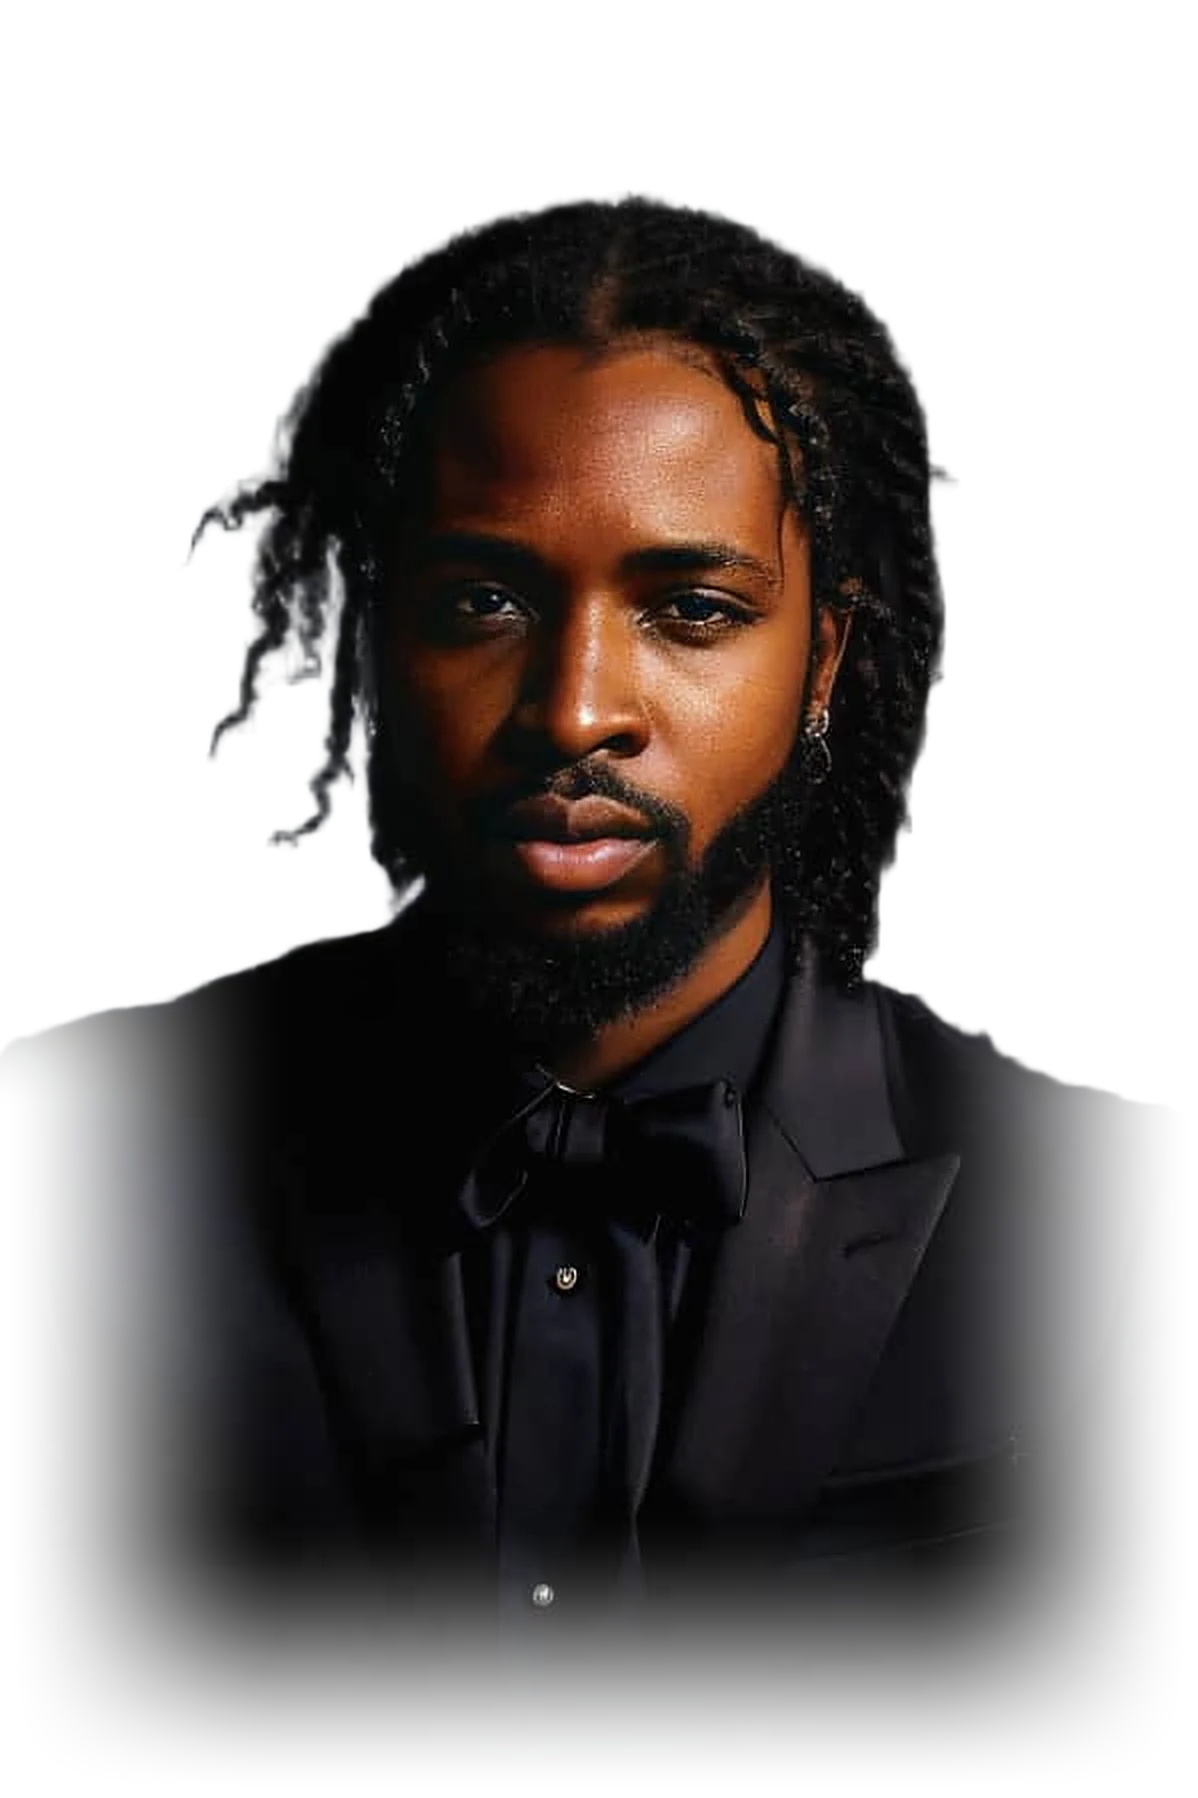
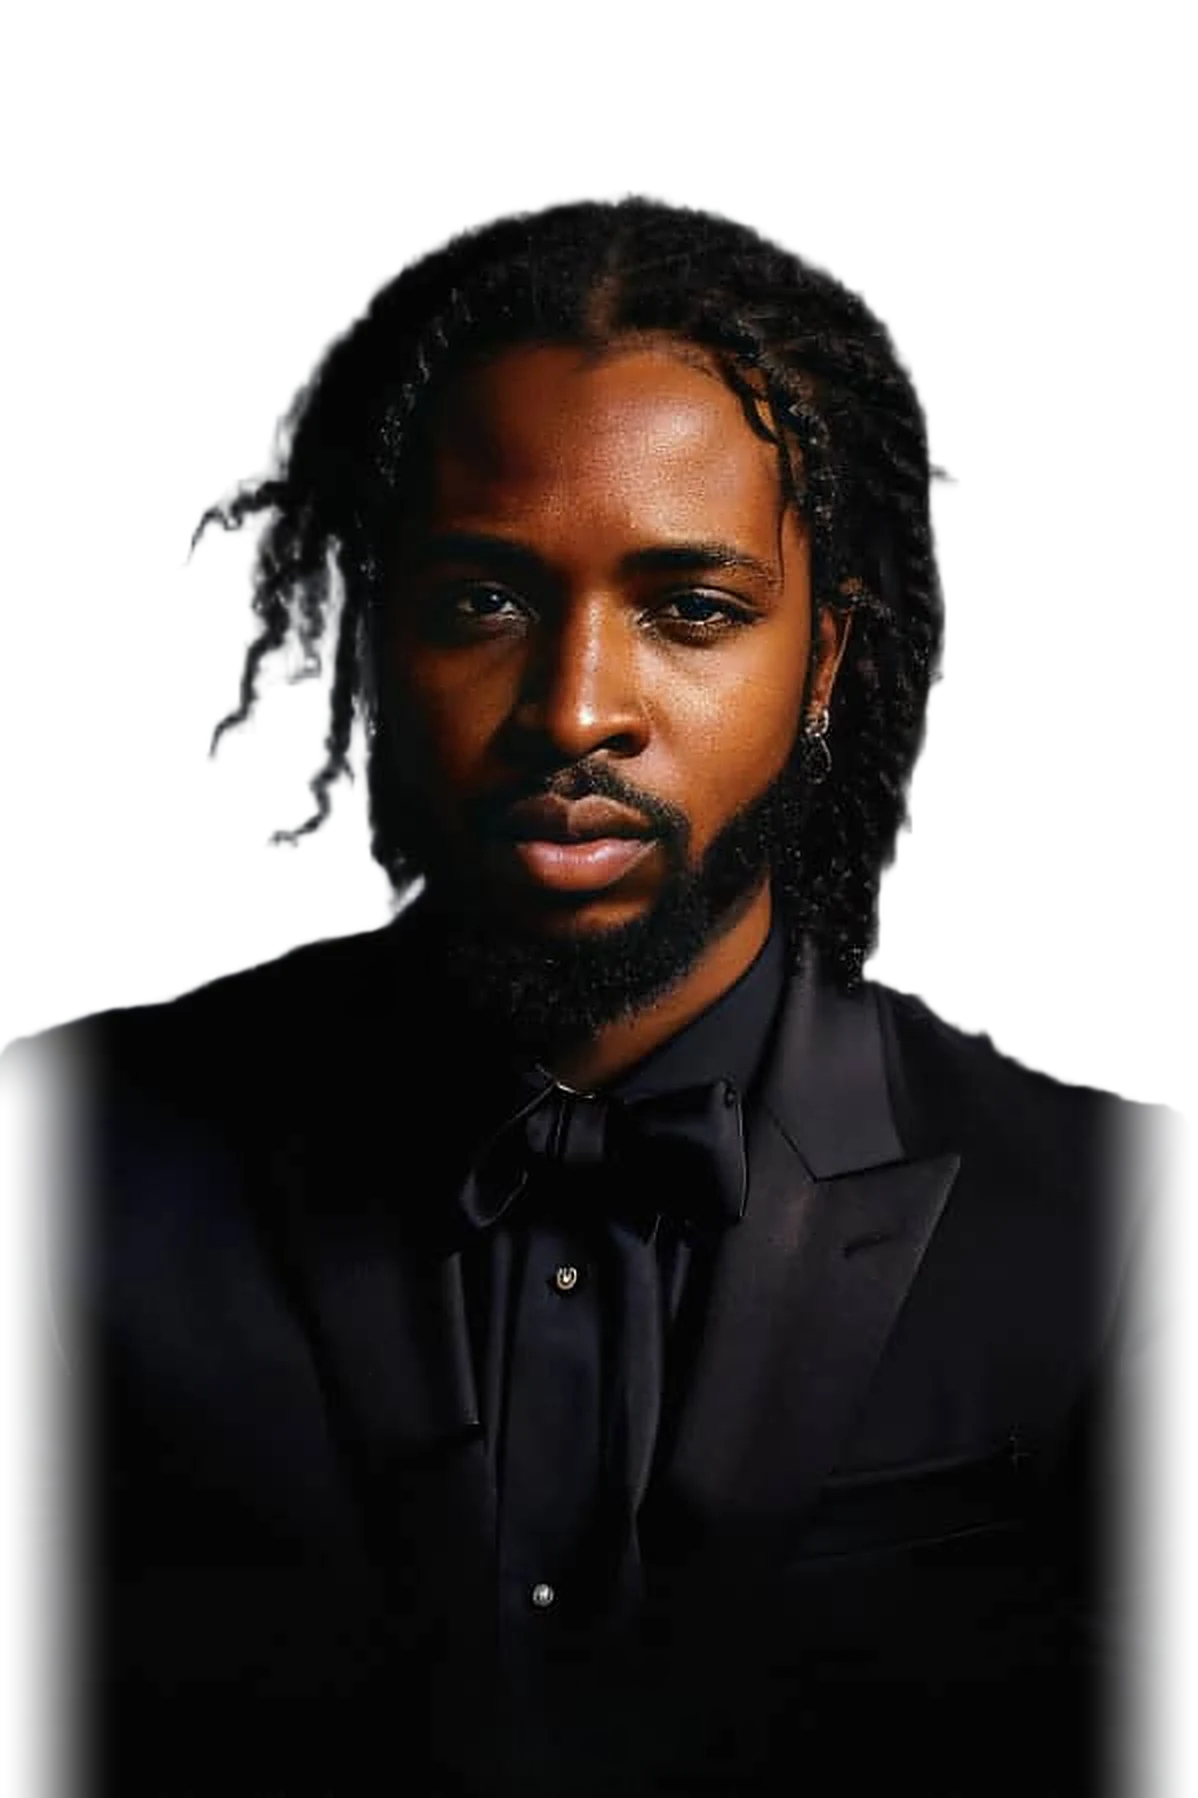
Hero shoulders closer to the concept, first-frame canvas error fixed, closing quote after last word
Claude-Session: https://claude.ai/code/session_012UR96DsDdzAgwwgmztnBTh

Changed region(s): [[0.0, 0.5295, 0.9883, 1.0]]

diff --git a/components/HeroPortrait.tsx b/components/HeroPortrait.tsx
@@ -70,42 +70,73 @@ function linkNearest(nodes: P[], k: number, max: number) {
   return edges;
 }
 
-// Low-poly shards where the shoulders break up
-function buildShards(r: () => number) {
-  const cols = 13;
-  const rows = 6;
-  const grid: P[] = [];
-  for (let row = 0; row < rows; row++) {
-    for (let col = 0; col < cols; col++) {
-      const u = -0.22 + (col / (cols - 1)) * 1.44 + (r() - 0.5) * 0.07;
-      const v = 0.6 + row * 0.085 + (r() - 0.5) * 0.05 + (row === rows - 1 ? r() * 0.06 : 0);
-      grid.push(makePoint(r, u, v, 0.18));
-    }
+// Where the suit ends: a jagged V along the bottom of the photo (fractions of the photo box).
+// The photo is clipped to this line, and small triangles break away below it.
+const ZIG: [number, number][] = (() => {
+  const r = rand(19);
+  const pts: [number, number][] = [];
+  const n = 17;
+  for (let i = 0; i < n; i++) {
+    const u = 0.02 + (i / (n - 1)) * 0.96;
+    const base = 0.68 + 0.25 * Math.pow(1 - Math.abs(u - 0.5) / 0.48, 1.3);
+    const tooth = i % 2 ? 0.018 + r() * 0.02 : -0.01 - r() * 0.01;
+    pts.push([u, Math.min(0.985, base + tooth)]);
   }
-  const tris: { a: number; b: number; c: number; shade: number }[] = [];
-  for (let row = 0; row < rows - 1; row++) {
-    for (let col = 0; col < cols - 1; col++) {
-      const i = row * cols + col;
-      const quad = [i, i + 1, i + cols, i + cols + 1];
-      const flip = r() < 0.5;
-      const pair = flip
-        ? [[quad[0], quad[1], quad[3]], [quad[0], quad[3], quad[2]]]
-        : [[quad[0], quad[1], quad[2]], [quad[1], quad[3], quad[2]]];
-      pair.forEach(([a, b, c]) => {
-        const cu = (grid[a].bu + grid[b].bu + grid[c].bu) / 3;
-        const cv = (grid[a].bv + grid[b].bv + grid[c].bv) / 3;
-        // keep the chest and the top of the shoulders as the real photo
-        if (Math.abs(cu - 0.5) < 0.3 && cv < 0.8) return;
-        if (cv < 0.66 && Math.abs(cu - 0.5) < 0.5) return;
-        // drop some shards at the edges so it breaks apart
-        const edge = Math.max(0, Math.abs(cu - 0.5) - 0.45) * 3 + Math.max(0, cv - 0.9) * 4;
-        if (r() < edge) return;
-        tris.push({ a, b, c, shade: 0.35 + r() * 0.65 });
-      });
-    }
+  return pts;
+})();
+
+// CSS clip-path for the photo, so the suit ends on the jagged line
+const PHOTO_CLIP = `polygon(0% 0%, 100% 0%, 100% ${(ZIG[ZIG.length - 1][1] * 100).toFixed(1)}%, ${[...ZIG]
+  .reverse()
+  .map(([u, v]) => `${(u * 100).toFixed(1)}% ${(v * 100).toFixed(1)}%`)
+  .join(", ")}, 0% ${(ZIG[0][1] * 100).toFixed(1)}%)`;
+
+type Tone = "suit" | "grey" | "accent";
+const tone = (r: () => number): Tone => {
+  const x = r();
+  return x < 0.55 ? "suit" : x < 0.82 ? "grey" : "accent";
+};
+
+function buildBottom(r: () => number) {
+  // the jagged line itself, as moving points
+  const edge = ZIG.map(([u, v]) => makePoint(r, u, v, 0.35));
+  edge.forEach((p) => (p.amp *= 0.4));
+
+  // triangles hanging from the line, like the suit breaking apart
+  const hang: { a: P; b: P; apex: P; tone: Tone }[] = [];
+  for (let i = 0; i < edge.length - 1; i++) {
+    if (r() < 0.3) continue;
+    const lo = Math.max(edge[i].bv, edge[i + 1].bv);
+    const apex = makePoint(r, (edge[i].bu + edge[i + 1].bu) / 2 + (r() - 0.5) * 0.04, lo + 0.018 + r() * 0.035, 0);
+    hang.push({ a: edge[i], b: edge[i + 1], apex, tone: tone(r) });
   }
-  const used = new Set(tris.flatMap((t) => [t.a, t.b, t.c]));
-  return { grid: grid.map((g, i) => ({ ...g, used: used.has(i) })), tris };
+
+  // small loose pieces drifting below
+  const bits: { c: P; size: number; rot: number; tone: Tone; dist: number }[] = [];
+  for (let i = 0; i < 22; i++) {
+    const k = r() * (ZIG.length - 1);
+    const j = Math.floor(k);
+    const u = ZIG[j][0] + (ZIG[j + 1][0] - ZIG[j][0]) * (k - j);
+    const vEdge = ZIG[j][1] + (ZIG[j + 1][1] - ZIG[j][1]) * (k - j);
+    const dist = 0.03 + r() * 0.13;
+    bits.push({ c: makePoint(r, u + (r() - 0.5) * 0.05, vEdge + dist, 0), size: 0.012 + r() * 0.026 * (1 - dist * 3), rot: r() * Math.PI * 2, tone: tone(r), dist });
+  }
+
+  // a thin network over the shoulders and chest (never the face)
+  const net: P[] = [];
+  let tries = 0;
+  while (net.length < 22 && tries++ < 3000) {
+    const u = 0.05 + r() * 0.9;
+    const k = Math.min(ZIG.length - 2, Math.floor((u - 0.02) / (0.96 / (ZIG.length - 1))));
+    const bottom = Math.min(ZIG[k][1], ZIG[k + 1][1]) - 0.02;
+    const top = Math.abs(u - 0.5) < 0.2 ? 0.66 : 0.62;
+    const v = top + r() * (bottom - top);
+    if (v >= bottom) continue;
+    net.push(makePoint(r, u, v, 0.55));
+  }
+  const netNodes = [...net, ...edge];
+  const netEdges = linkNearest(netNodes, 2, 0.2);
+  return { edge, hang, bits, netNodes, netEdges };
 }
 
 // Orbit rings around the head
@@ -133,8 +164,8 @@ export default function HeroPortrait() {
     const r = rand(7);
     const side = buildSideNodes(r);
     const sideEdges = linkNearest(side, 2, 0.32);
-    const { grid, tris } = buildShards(r);
-    const all: (P & { used?: boolean })[] = [...side, ...grid];
+    const { edge, hang, bits, netNodes, netEdges } = buildBottom(r);
+    const all: P[] = [...side, ...netNodes, ...hang.map((h) => h.apex), ...bits.map((b) => b.c)];
 
     let colours = { line: "rgba(255,255,255,0.3)", node: "#fff", accent: "#F5B800", shard: "60,60,60" };
     const readColours = () => {
@@ -191,9 +222,10 @@ export default function HeroPortrait() {
     const draw = (now: number) => {
       frame = requestAnimationFrame(draw);
       if (!visible && !reduce) return;
-      const t = (now - start) / 1000;
+      const t = Math.max(0, (now - start) / 1000);
+      const t0 = t;
       const intro = reduce ? 1 : Math.min(1, t / 1.6);
-      const ease = 1 - (1 - intro) ** 3;
+      const ease = Math.max(0, 1 - (1 - intro) ** 3);
 
       all.forEach((n) => {
         const bx = X(n.bu);
@@ -222,37 +254,59 @@ export default function HeroPortrait() {
         c.lineCap = "round";
       });
 
-      // FRONT CANVAS: shoulder shards, the only part that sits over the photo
-      tris.forEach(({ a, b, c, shade }) => {
-        const A = grid[a], B = grid[b], C = grid[c];
-        const cy = (A.bv + B.bv + C.bv) / 3;
-        const fade = Math.max(0, Math.min(1, (1.08 - cy) / 0.3));
-        fctx.globalAlpha = intro * fade;
-        fctx.fillStyle = `rgba(${colours.shard},${shade})`;
+      // FRONT CANVAS: only the shoulders. The suit stays, a thin network runs over it,
+      // and the bottom edge breaks into small triangles.
+      const fill = (t: Tone, alpha: number) => {
+        fctx.globalAlpha = alpha * intro;
+        fctx.fillStyle =
+          t === "accent" ? colours.accent : t === "suit" ? `rgb(${colours.shard})` : `rgba(${colours.shard},0.45)`;
+      };
+      hang.forEach(({ a, b, apex, tone: t }) => {
+        fill(t, t === "grey" ? 1 : 0.92);
         fctx.beginPath();
-        fctx.moveTo(A.x, A.y);
-        fctx.lineTo(B.x, B.y);
-        fctx.lineTo(C.x, C.y);
+        fctx.moveTo(a.x, a.y);
+        fctx.lineTo(b.x, b.y);
+        fctx.lineTo(apex.x, apex.y);
         fctx.closePath();
         fctx.fill();
-        fctx.strokeStyle = colours.line;
-        fctx.lineWidth = 0.8;
-        fctx.stroke();
       });
-      grid.forEach((n) => {
-        if (!n.used) return;
-        fctx.globalAlpha = intro * Math.max(0, Math.min(1, (1.08 - n.bv) / 0.3));
-        fctx.fillStyle = n.hot ? colours.accent : colours.node;
+      bits.forEach(({ c, size, rot, tone: t, dist }) => {
+        const s = size * box.w;
+        const spin = rot + (reduce ? 0 : Math.sin(t0 * 0.4 + rot) * 0.25);
+        fill(t, Math.max(0, 1 - dist / 0.17) * (t === "grey" ? 1 : 0.9));
         fctx.beginPath();
-        fctx.arc(n.x, n.y, n.hot ? n.size + 0.8 : n.size * 0.8, 0, Math.PI * 2);
+        for (let k = 0; k < 3; k++) {
+          const ang = spin + (k * Math.PI * 2) / 3;
+          const px = c.x + Math.cos(ang) * s, py = c.y + Math.sin(ang) * s * 0.8;
+          if (k === 0) fctx.moveTo(px, py);
+          else fctx.lineTo(px, py);
+        }
+        fctx.closePath();
         fctx.fill();
       });
+      fctx.strokeStyle = colours.accent;
+      fctx.lineWidth = 0.9;
+      netEdges.forEach(([a, b]) => {
+        fctx.globalAlpha = 0.7 * intro;
+        fctx.beginPath();
+        fctx.moveTo(netNodes[a].x, netNodes[a].y);
+        fctx.lineTo(netNodes[b].x, netNodes[b].y);
+        fctx.stroke();
+      });
+      netNodes.forEach((n) => {
+        fctx.globalAlpha = intro;
+        fctx.fillStyle = n.hot ? colours.accent : colours.node;
+        fctx.beginPath();
+        fctx.arc(n.x, n.y, n.hot ? n.size * 0.9 + 0.6 : n.size * 0.6, 0, Math.PI * 2);
+        fctx.fill();
+      });
+      void edge;
 
       // BACK CANVAS (behind the photo): orbits, side network and nodes, so nothing covers the face
       const orbit = (o: (typeof ORBITS)[number], i: number, front: boolean) => {
         const tilt = o.tilt + (reduce ? 0 : Math.sin(t * 0.25 + i) * 0.05);
         const cx = X(HEAD.u), cy = Y(0.35 + 0.015 * i);
-        const rx = o.ru * box.w * ease, ry = o.rv * box.h * ease;
+        const rx = Math.max(0, o.ru * box.w * ease), ry = Math.max(0, o.rv * box.h * ease);
         ctx.save();
         ctx.translate(cx, cy);
         ctx.rotate(tilt);
@@ -329,7 +383,7 @@ export default function HeroPortrait() {
         className="absolute -left-[45%] -right-[25%] -top-[10%] -bottom-[8%] h-[118%] w-[170%] pointer-events-none"
       />
       {/* Photo box: 90% of the width, 2:3, sitting on the bottom (matches the canvas maths) */}
-      <div className="absolute bottom-0 left-[5%] w-[90%] aspect-[2/3] portrait-in">
+      <div className="absolute bottom-0 left-[5%] w-[90%] aspect-[2/3] portrait-in" style={{ clipPath: PHOTO_CLIP }}>
         <Image
           src="/images/profile-cutout.webp"
           alt="Mairo Pedro Isaac"
@@ -338,10 +392,6 @@ export default function HeroPortrait() {
           sizes="(max-width: 768px) 90vw, 440px"
           quality={90}
           className="object-contain object-bottom"
-          style={{
-            WebkitMaskImage: "radial-gradient(ellipse 70% 78% at 50% 36%, #000 70%, transparent 100%)",
-            maskImage: "radial-gradient(ellipse 70% 78% at 50% 36%, #000 70%, transparent 100%)",
-          }}
         />
       </div>
       {/* Only the shoulder shards are drawn in front of the photo */}

diff --git a/components/sections/Testimonial.tsx b/components/sections/Testimonial.tsx
@@ -16,7 +16,7 @@ export default function Testimonial() {
             </p>
 
             {/* The words sit between an opening and a closing quotation mark */}
-            <div className="relative mt-8 md:mt-10 px-10 sm:px-14 md:px-20">
+            <div className="relative mt-8 md:mt-10 pl-10 sm:pl-14 md:pl-20">
               <span
                 aria-hidden
                 className="absolute left-0 -top-3 md:-top-5 font-display text-[4.5rem] sm:text-[6rem] md:text-[7.5rem] leading-none text-white/25 select-none"
@@ -25,13 +25,14 @@ export default function Testimonial() {
               </span>
               <blockquote className="text-[1.3rem] sm:text-[1.7rem] lg:text-[2rem] font-semibold leading-[1.38] tracking-[-0.015em] text-white text-balance">
                 {testimonial.quote}
+                {/* closing mark sits right after the last word */}
+                <span
+                  aria-hidden
+                  className="font-display inline-block align-top ml-2 h-[0.6em] text-[2.6em] leading-[0.85] text-white/25 select-none"
+                >
+                  &rdquo;
+                </span>
               </blockquote>
-              <span
-                aria-hidden
-                className="absolute right-0 -bottom-12 sm:-bottom-16 md:-bottom-20 font-display text-[4.5rem] sm:text-[6rem] md:text-[7.5rem] leading-none text-white/25 select-none"
-              >
-                &rdquo;
-              </span>
             </div>
 
             <figcaption className="mt-14 md:mt-16 flex flex-col sm:flex-row sm:items-center sm:justify-between gap-6 pt-7 border-t border-white/15">
